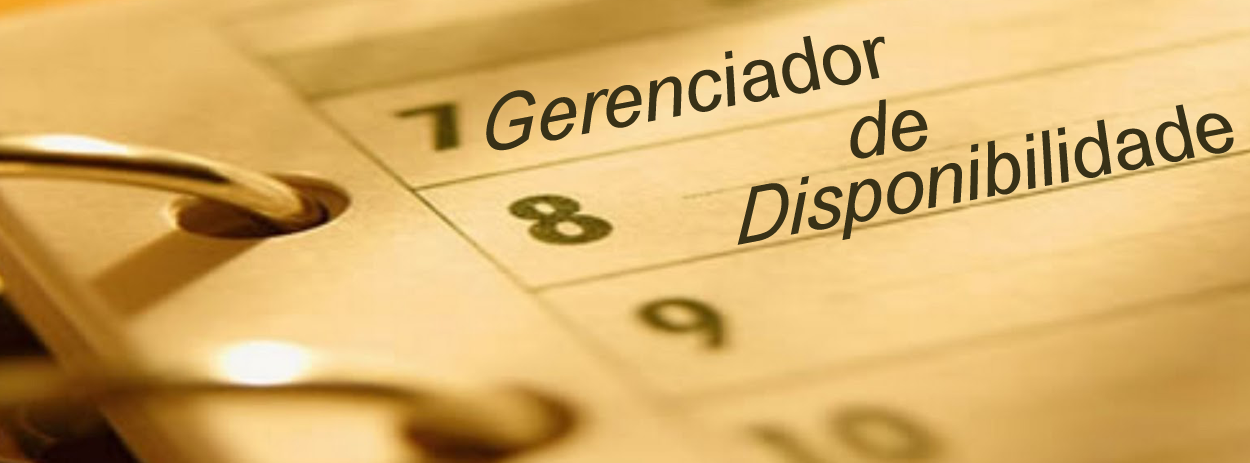
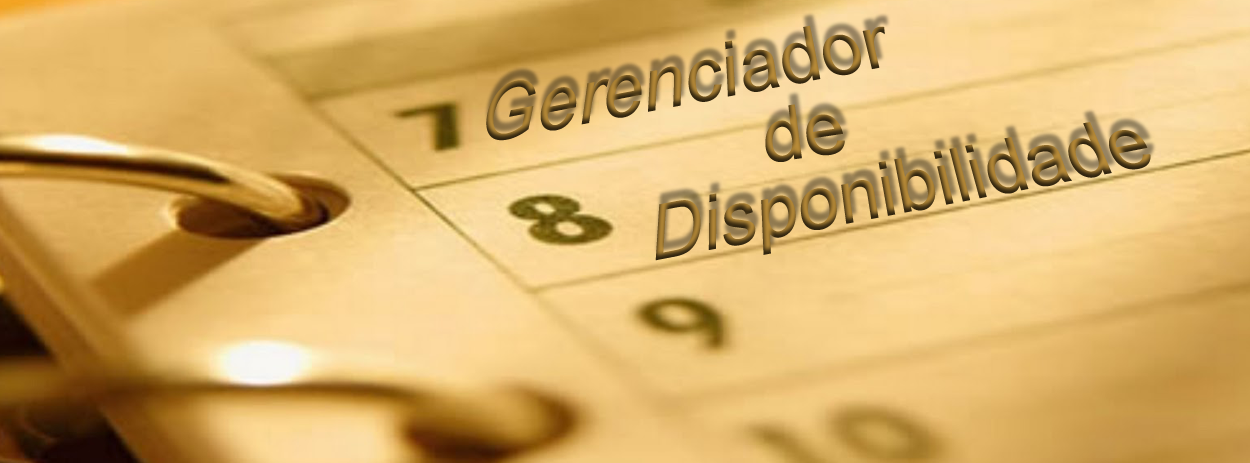
Estilização página Inicial

Changed region(s): [[0.3744, 0.0302, 0.9984, 0.5745]]

diff --git a/GerenDisponibilidade/templates/geral/paginaInicial.html b/GerenDisponibilidade/templates/geral/paginaInicial.html
@@ -4,16 +4,15 @@
 
 <div class="hero-unit" id="topHome">
 
-	<div class="well" id="cabecalho">
-		<br />
-		<div id="texto">
-			Bem Vindo(a)!
+	<div class="row" id="cabecalho">
+		<div class="well" id="texto">
+			Bem Vindo(a)! 
 		</div>
 	<br />
 		<br />
 			<br />
 				<br />
-		<div class="spa3">
+		<div class="well" id="texto2">
 		
 			Este é o sistema de Gerenciamento de Disponibilidade da Unipampa	- Alegrete - RS
 		</div>
@@ -26,7 +25,7 @@
 	<div class="span4">
 		<h2>Professor</h2>
 		<p>
-			Atualização do perfil e agenda de compromissos.
+			Perfil e agenda de compromissos.
 		</p>
 		<p>
 			<a class="btn btn-large btn-info" href="{% url professor:home %}">Acessar &raquo;</a>
@@ -35,7 +34,7 @@
 	<div class="span4">
 		<h2>Secretaria</h2>
 		<p>
-			Gerenciamento de salas e equipamentos.
+			Gestão de salas e equipamentos.
 		</p>
 		<p>
 			<a class="btn btn-large btn-info" href="{% url secretaria:listaSalas %}">Acessar &raquo;</a>
@@ -44,7 +43,7 @@
 	<div class="span4">
 		<h2>Coordenador</h2>
 		<p>
-			Gerenciamento de horários.
+			Gestão de horários.
 		</p>
 		<p>
 			<a class="btn btn-large btn-info" href="/coordenador-home/">Acessar &raquo;</a>

diff --git a/GerenDisponibilidade/static/css/styles.css b/GerenDisponibilidade/static/css/styles.css
@@ -39,21 +39,27 @@ div#disponibilidade-aula table tbody th.selecionado:hover {
 }
 
 div#topHome {
-	background-image: url("/static/img/Projeto-Agenda-PS2.png");
+	background-image: url("/static/img/Projeto-Agenda-PS.png");
 	position: center;
 	background-repeat: no-repeat;
 }
 
 div#cabecalho {
 
-	width: 350px;
-	background-color: #808080;
+	width: 360px;
+	text-align: center;
 }
 
 div#cabecalho #texto {
 
-	text-align: left;
 	font-size: 2.8em;
+	color: black;
+}
+
+div#cabecalho #texto2 {
+	
+	font-size: 1.1em;
+	color: black;
 }
 
 div.dataTables_length label {
